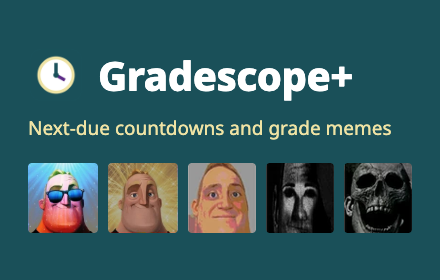
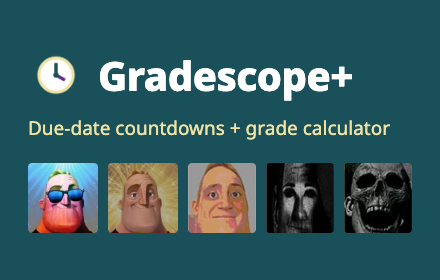
Mention the grade calculator on the small promo tile

Changed region(s): [[0.0591, 0.4286, 0.8864, 0.5143]]

diff --git a/store/src/promo-small.html b/store/src/promo-small.html
@@ -13,7 +13,7 @@
 </style>
 <div class="wrap">
   <div class="top"><img src="../../icons/icon128.png" alt=""><div class="title">Gradescope+</div></div>
-  <div class="tag">Next-due countdowns and grade memes</div>
+  <div class="tag">Due-date countdowns + grade calculator</div>
   <div class="memes">
     <img src="../../images/tier1.png"><img src="../../images/tier3.png"><img src="../../images/tier5.png"><img src="../../images/tier9.png"><img src="../../images/tier12.png">
   </div>
